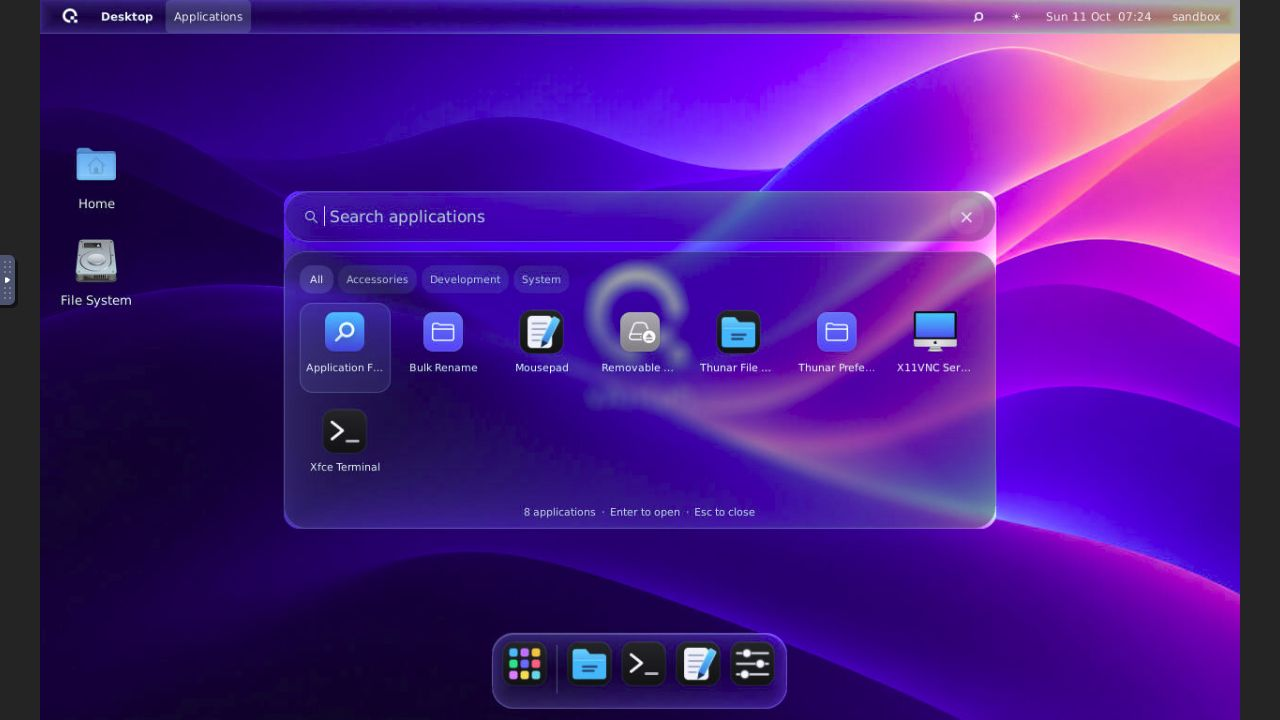
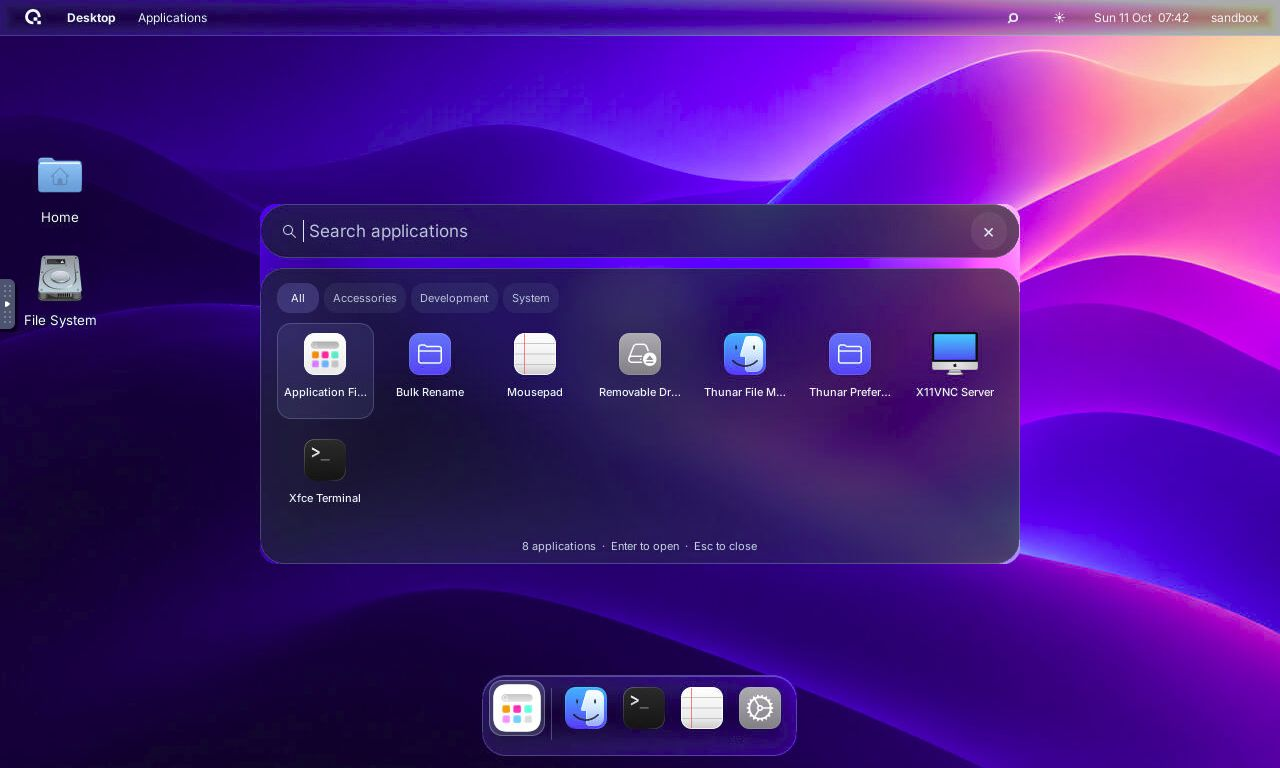
Apply MacTahoe desktop appearance and document Apple 27 references

diff --git a/shell.css b/shell.css
@@ -5,7 +5,7 @@ window#shell-surface { background-color: transparent; }
   color: #f5f6fb;
   border-bottom: 1px solid rgba(255, 255, 255, 0.16);
   padding: 0 12px;
-  font-family: "DejaVu Sans", sans-serif;
+  font-family: "Inter", "DejaVu Sans", sans-serif;
   font-size: 12px;
 }
 .menu-bar button {
@@ -146,10 +146,10 @@ window#launcher-window.light, window#panel-window.light { color: #252735; }
    material layer thin so the optical effect remains visible underneath. */
 .kwin .dock { background: rgba(17,21,33,0.16); }
 .kwin .menu-bar { background: rgba(17,21,33,0.32); }
-.kwin .launcher-search { background: rgba(12,16,25,0.30); }
-.kwin .app-grid-card, .kwin .menu-card { background: rgba(16,20,31,0.36); }
+.kwin .launcher-search { background: rgba(20,21,25,0.62); }
+.kwin .app-grid-card, .kwin .menu-card { background: rgba(24,25,29,0.60); }
 .kwin.light .dock { background: rgba(242,246,255,0.18); }
 .kwin.light .menu-bar { background: rgba(242,246,255,0.46); }
 .kwin.light .launcher-search, .kwin.light .app-grid-card, .kwin.light .menu-card {
-  background: rgba(242,246,255,0.50);
+  background: rgba(248,248,250,0.74);
 }

diff --git a/shell.py b/shell.py
@@ -72,7 +72,7 @@ class Shell:
         self.pins = [
             ('thunar.desktop', 'Files', 'system-file-manager', ('thunar',)),
             ('xfce4-terminal.desktop', 'Terminal', 'utilities-terminal', ('xfce4-terminal',)),
-            ('org.xfce.mousepad.desktop', 'Text Editor', 'accessories-text-editor', ('mousepad',)),
+            ('org.xfce.mousepad.desktop', 'Text Editor', 'accessories-text-editor', ('mousepad', 'org.xfce.mousepad')),
             ('xfce-settings-manager.desktop', 'Settings', 'preferences-system', ('xfce4-settings-manager',)),
         ]
         self.pin_widgets = []
@@ -306,11 +306,26 @@ class Shell:
         style(search, 'search-button')
         box.pack_end(search, False, False, 0)
 
+    def has_tahoe_icons(self):
+        return any((root / 'MacTahoe').is_dir() for root in
+                   (Path.home() / '.local/share/icons', Path('/usr/share/icons')))
+
     def icon(self, app_id, fallback, size):
+        if self.has_tahoe_icons():
+            themed = {'thunar.desktop': 'system-file-manager',
+                      'xfce4-terminal.desktop': 'utilities-terminal',
+                      'org.xfce.mousepad.desktop': 'accessories-text-editor',
+                      'xfce-settings-manager.desktop': 'preferences-system',
+                      'xfce4-appfinder.desktop': 'view-app-grid'}
+            name = themed.get(app_id, 'view-app-grid' if fallback == 'view-app-grid-symbolic' else None)
+            if name:
+                image = Gtk.Image.new_from_icon_name(name, Gtk.IconSize.DIALOG)
+                image.set_pixel_size(size)
+                return image
         custom = {'thunar.desktop': 'files', 'xfce4-terminal.desktop': 'terminal',
                   'org.xfce.mousepad.desktop': 'editor', 'xfce-settings-manager.desktop': 'settings'}
         name = custom.get(app_id, 'applications' if fallback == 'view-app-grid-symbolic' else None)
-        if name and (ROOT / 'icons' / f'{name}.svg').exists():
+        if not self.has_tahoe_icons() and name and (ROOT / 'icons' / f'{name}.svg').exists():
             return Gtk.Image.new_from_pixbuf(self.custom_pixbuf(name, size))
         app = Gio.DesktopAppInfo.new(app_id) if app_id else None
         if app and app.get_icon():
@@ -339,7 +354,12 @@ class Shell:
         obj.set_tooltip_text(name)
         obj.get_accessible().set_name(name)
         obj.connect('clicked', lambda _: action())
-        if window and window.get_icon():
+        if window and self.has_tahoe_icons():
+            icon_name = (window.get_class_group_name() or 'application-x-executable').casefold()
+            if not Gtk.IconTheme.get_default().has_icon(icon_name):
+                icon_name = 'application-x-executable'
+            image = self.icon(None, icon_name, 44)
+        elif window and window.get_icon():
             pixbuf = window.get_icon().scale_simple(44, 44, 2)
             image = Gtk.Image.new_from_pixbuf(pixbuf)
         else:
@@ -432,7 +452,7 @@ class Shell:
         active = self.screen.get_active_window()
         if active and not active.is_skip_tasklist():
             name = active.get_class_group_name() or 'Desktop'
-            friendly = {'thunar': 'Files', 'xfce4-terminal': 'Terminal', 'mousepad': 'Text Editor',
+            friendly = {'thunar': 'Files', 'xfce4-terminal': 'Terminal', 'mousepad': 'Text Editor', 'org.xfce.mousepad': 'Text Editor',
                         'xfce4-settings-manager': 'Settings'}
             self.active_label.set_text(friendly.get(name.casefold(), name))
         elif not active or active.get_window_type() == Wnck.WindowType.DESKTOP:
@@ -598,19 +618,36 @@ class Shell:
         dark = self.preferences['dark']
         logo = ROOT / 'assets' / ('logo-light.svg' if dark else 'logo.svg')
         self.brand_image.set_from_pixbuf(GdkPixbuf.Pixbuf.new_from_file_at_scale(str(logo), 22, 22, True))
-        theme = 'WhiteSur-Dark' if dark else 'WhiteSur-Light'
+        theme = 'MacTahoe-Dark' if dark else 'MacTahoe-Light'
         theme_roots = (Path.home() / '.themes', Path.home() / '.local/share/themes', Path('/usr/share/themes'))
-        has_whitesur = any((root / theme / 'gtk-3.0').is_dir() for root in theme_roots)
-        icon = 'WhiteSur-dark' if dark else 'WhiteSur-light'
+        has_theme = any((root / theme / 'gtk-3.0').is_dir() for root in theme_roots)
+        if not has_theme:
+            theme = 'WhiteSur-Dark' if dark else 'WhiteSur-Light'
+            has_theme = any((root / theme / 'gtk-3.0').is_dir() for root in theme_roots)
+        icon = ('MacTahoe-dark' if dark else 'MacTahoe-light') if self.has_tahoe_icons() else ('WhiteSur-dark' if dark else 'WhiteSur-light')
         icon_roots = (Path.home() / '.icons', Path.home() / '.local/share/icons', Path('/usr/share/icons'))
         has_icons = any((root / icon).is_dir() for root in icon_roots)
         has_frames = any((root / theme / 'xfwm4').is_dir() for root in theme_roots)
         for channel, prop, value in [
-            ('xsettings', '/Net/ThemeName', theme if has_whitesur else ('Adwaita-dark' if dark else 'Adwaita')),
+            ('xsettings', '/Net/ThemeName', theme if has_theme else ('Adwaita-dark' if dark else 'Adwaita')),
             ('xsettings', '/Net/IconThemeName', icon if has_icons else 'Adwaita'),
             ('xfwm4', '/general/theme', theme if has_frames else 'Default'),
         ]:
             subprocess.run(['xfconf-query', '-c', channel, '-p', prop, '-s', value], check=False)
+        cursor = 'MacTahoe-dark-cursors' if dark else 'MacTahoe-cursors'
+        if Path('/usr/share/icons', cursor).is_dir():
+            subprocess.run(['xfconf-query', '-c', 'xsettings', '-p', '/Gtk/CursorThemeName',
+                            '-n', '-t', 'string', '-s', cursor], check=False)
+        subprocess.run(['xfconf-query', '-c', 'xsettings', '-p', '/Gtk/FontName',
+                        '-n', '-t', 'string', '-s', 'Inter 10'], check=False)
+        Gtk.Settings.get_default().set_property('gtk-icon-theme-name', icon if has_icons else 'Adwaita')
+        if os.environ.get('VANTAH_COMPOSITOR') == 'kwin' and Path('/usr/share/aurorae/themes/MacTahoe-Dark').is_dir():
+            decoration = 'MacTahoe-Dark' if dark else 'MacTahoe-Light'
+            for key, value in [('library', 'org.kde.kwin.aurorae'), ('theme', '__aurorae__svg__' + decoration)]:
+                subprocess.run(['kwriteconfig6', '--file', 'kwinrc', '--group', 'org.kde.kdecoration2',
+                                '--key', key, value], check=False)
+            subprocess.run(['gdbus', 'call', '--session', '--dest', 'org.kde.KWin', '--object-path', '/KWin',
+                            '--method', 'org.kde.KWin.reconfigure'], stdout=subprocess.DEVNULL, check=False)
         self.appearance_button.set_label('☀' if dark else '☾')
         self.appearance_button.set_tooltip_text('Switch to light mode' if dark else 'Switch to dark mode')
         for key, item in self.mode_items.items():
@@ -663,7 +700,7 @@ class Shell:
                   'org.xfce.mousepad.desktop': 'editor', 'xfce-settings-manager.desktop': 'settings'}
         name = custom.get(getattr(image, 'app_id', None),
                           'applications' if getattr(image, 'fallback', '') == 'view-app-grid-symbolic' else None)
-        if name:
+        if name and not self.has_tahoe_icons():
             image.set_from_pixbuf(self.custom_pixbuf(name, size))
         else:
             image.set_pixel_size(size)

diff --git a/docs/apple-design-references.md b/docs/apple-design-references.md
@@ -1,0 +1,61 @@
+# Apple 27 appearance references
+
+Collected and inspected on 2026-10-11. The goal is closer visual alignment for
+vAntah's Linux shell. This is not a verified pixel-perfect reproduction.
+Apple images are linked as references, not bundled as theme artwork.
+
+## Official source catalog
+
+| Reference | Use |
+| --- | --- |
+| [Apple Design Resources](https://developer.apple.com/design/resources/) | Official macOS 27 and iOS/iPadOS 27 kits, icon templates, Siri resources |
+| [Design kit announcement](https://developer.apple.com/news/?id=e2lxw9l1) | June 2026 kit versions and dark-mode components |
+| [macOS 27 UI kit](https://www.figma.com/community/file/1651309434229735362/macos-27) | Component geometry; linked from Apple; full Figma document was not inspected |
+| [iOS/iPadOS 27 UI kit](https://www.figma.com/community/file/1651309003795292092/ios-and-ipados-27) | Mobile component reference; full Figma document was not inspected |
+| [macOS kit preview](https://developer.apple.com/design/resources/images/thumbnails/Thumbnail-UIKit-macOS27_2x.png) | Visually inspected grouped settings, rounded cards, compact controls |
+| [iOS kit preview](https://developer.apple.com/design/resources/images/thumbnails/Thumbnail-UIKit-iOS27_2x.png?3=) | Visually inspected colored icons, translucent dock and tablet controls |
+| [macOS 27 overview](https://www.apple.com/os/macos/) | Official screenshots, Siri/Spotlight and refined Liquid Glass |
+| [iOS 27 overview](https://www.apple.com/os/ios/) | Official iPhone UI, icons and Siri examples |
+| [Glass toolbar close-up](https://images.apple.com/v/os/g/images/macos/highlights/liquid_glass__bf6kssw93vrm_large.jpg) | Visually inspected grouped toolbar buttons, restrained borders and legible glyphs |
+| [Siri conversation panel](https://images.apple.com/v/os/g/images/macos/siri/conversation__puy86qxwfayy_large.jpg) | Visually inspected dark floating panel, compact actions and input placement |
+| [Siri desktop app](https://images.apple.com/v/os/g/images/macos/siri/siri_app__bf82k75xd8z6_large.jpg) | Visually inspected light window, traffic lights, translucent sidebar and bottom input |
+| [Siri icon resource](https://devimages-cdn.apple.com/design/resources/download/Icon-Siri.dmg) | Official Apple download, located but not extracted or installed |
+| [WWDC26 platform presentation](https://developer.apple.com/videos/play/wwdc2026/112/) | Readability and consistency refinements |
+| [Icon Composer lab](https://developer.apple.com/videos/play/wwdc2026/8012/) | Layered icon design, material and contrast reference |
+
+## Findings applied
+
+The inspected Apple screenshots use recognizable colored artwork, not a uniform
+black tile behind every app. Thin borders, soft backdrop blur and controlled
+highlights support readable controls. Content regions are more solid than glass
+navigation surfaces. Light and dark appearances change controls and window frames,
+not just the wallpaper. Siri's conversation view and Spotlight's app search serve
+different purposes; vAntah currently provides local application search only.
+
+vAntah now uses a pinned open-source Linux package for app/system icons and
+cursors, MacTahoe GTK controls and Aurorae traffic-light window frames. KWin Glass
+has a narrower refraction edge, less color fringing, a quieter glow and stronger
+backdrop blur. Search surfaces receive a more neutral tint to protect label contrast.
+
+## Installed Linux packages and attribution
+
+| Package | Pinned source revision | License |
+| --- | --- | --- |
+| [MacTahoe icons](https://github.com/vinceliuice/MacTahoe-icon-theme) | `839848b9a8a38a92a6936e30c4abe35cc6f2546d` | GPL-3.0 |
+| [MacTahoe GTK](https://github.com/vinceliuice/MacTahoe-gtk-theme) | `1e45e19f510edb8cde18fa84d6cd5319f60b086b` | MIT |
+| [MacTahoe KDE](https://github.com/vinceliuice/MacTahoe-kde) | `cbf6a1f71b591d143184855d62f6272ce533e7c3` | LGPL-3.0 |
+
+These projects target macOS Tahoe-inspired Linux appearance. They are not official
+Apple icon packages and do not supply Apple's layered Icon Composer rendering.
+
+## Fidelity limits
+
+There is no measured pixel-diff validation against a full macOS 27 component kit.
+The official public previews were inspected; Figma's full documents were not
+accessible through the research fetcher. GTK apps retain their own layouts and
+menus. Inter is used rather than Apple's SF Pro. X11 KWin Glass provides live
+blur and convex refraction, but newer Wayland-only glass controls are unavailable.
+Software rendering and noVNC scaling affect animation smoothness and perceived
+sharpness. No Siri service, voice assistant or Apple Intelligence backend is
+implemented. Further exact matching requires component-by-component measurements,
+not stronger claims about this theme package.

diff --git a/README.md b/README.md
@@ -7,7 +7,7 @@ a refractive dock, application search, dark mode, and motion controls.
 The current source uses KWin X11 and the real KWin Glass compositor effect.
 The published v0.1.1 installer below still provides the earlier Picom demo.
 
-Running KWin Glass desktop:
+Running KWin Glass desktop with MacTahoe icons:
 
 ![KWin Glass launcher and dock](docs/screenshots/kwin-glass.jpg)
 
@@ -62,11 +62,15 @@ The source is baked into the image. Rebuild after editing it. `run.sh` refuses t
 replace an existing container; use a different name and port to keep its files:
 `sh sandbox/run.sh vantah-demo-v2 6082`.
 
-The fresh demo uses Adwaita app and window themes. The application-search screenshot shows the
-existing sandbox with separately installed WhiteSur themes and icons. If those
-are already installed, the shell selects them; otherwise it uses Adwaita.
-The wallpaper and dock icons are original project assets. vAntah uses the
-Qentrah logo supplied by the project owner.
+The current source installs pinned [MacTahoe icons](https://github.com/vinceliuice/MacTahoe-icon-theme),
+[GTK themes](https://github.com/vinceliuice/MacTahoe-gtk-theme), cursors, and
+[KWin Aurorae decorations](https://github.com/vinceliuice/MacTahoe-kde).
+These are open-source Linux themes inspired by macOS Tahoe, not extracted Apple
+system assets or an exact macOS 27 theme. Inter is the desktop font.
+[Apple 27 and Siri reference catalog](docs/apple-design-references.md) records
+which official screenshots informed the work and what still differs.
+The wallpaper is an original project asset. vAntah uses the Qentrah logo supplied
+by the project owner. The earlier v0.1.1 demo screenshots retain its older appearance.
 
 ## Native implementation
 
@@ -95,10 +99,10 @@ The shell starts automatically with the Alpine desktop.
 
 `shell.py` is the native shell, `shell.css` defines its UI, and `kwinrc` configures
 the real Glass effect. The Picom files remain for the earlier session backend.
-The compact dark-tile dock icons are editable SVGs in `icons/`; `icons/generate.py`
-regenerates them. Dock hover zoom uses cached images and native animation timers.
+MacTahoe supplies the active dock, launcher, application, and system icons.
+The original SVGs in `icons/` remain as a fallback when MacTahoe is unavailable. Dock hover zoom uses cached images and native animation timers.
 Dock symbols render at 48 pixels with a 54-pixel hover size, inside 56-pixel
-click targets. The dark tiles use near-full-frame artwork with tighter gaps.
+click targets. Themed artwork keeps its upstream shape and color rather than adding a fixed black tile.
 The source installed in Alpine is `~/.local/share/alpine-shell`.
 
 `fix-vnc.py` patches the sandbox's noVNC client so Mac Command stays Linux
@@ -116,8 +120,11 @@ From this directory on the Mac:
 sh install.sh alpine-gui
 ```
 
-Optional WhiteSur themes and icons are not redistributed here and keep their
-upstream licenses. The shell code, wallpaper, and dock icons are MIT licensed. The Qentrah logo
+`sandbox/install-appearance.sh` downloads pinned theme sources and preserves their
+licenses in `/usr/share/doc/vantah-appearance/`: icons GPL-3.0, GTK MIT, and
+KDE decorations LGPL-3.0. These remain separate from the shell's license.
+The installer disables the unrelated GNOME theme switcher and uses upstream
+silent mode to work in headless Alpine builds. The shell code, wallpaper, and dock icons are MIT licensed. The Qentrah logo
 is project-owner branding, excluded from the artwork license. This is an original Linux shell inspired by Apple
 design, not Apple's iOS or macOS code and not an official 2027 Apple theme.
 
@@ -154,7 +161,8 @@ node sandbox/test-vnc-sizing.cjs /tmp/vantah-vnc-ui.js
 The keyboard regression simulates a swallowed Mac Command release and checks
 that it is released before the next `e` key, without sending Linux Alt.
 
-The existing Alpine sandbox was upgraded, booted, and visually checked with
-KWin and `glass_x11` loaded. The revised multistage Docker image has not yet
+The existing Alpine sandbox was upgraded with MacTahoe, booted, and checked with
+KWin and `glass_x11` loaded. [Appearance checks](docs/appearance-testing.md) record
+the tested controls and limitations. The revised multistage Docker image has not yet
 been validated from a clean build. The earlier v0.1.1 image and installer were
 built and booted, and the patched noVNC keyboard regression passed.

diff --git a/docs/appearance-testing.md b/docs/appearance-testing.md
@@ -1,0 +1,53 @@
+# Appearance and desktop checks
+
+Checked on 2026-10-11 in the existing `alpine-gui` sandbox at 1280 × 768,
+using KWin X11 6.5.6, Mesa software rendering and noVNC in the Codex browser.
+
+## Passed
+
+- Ran the complete `install.sh alpine-gui` upgrade: downloaded pinned Linux
+  theme sources, installed light/dark GTK themes, icon themes, cursors and
+  Aurorae decorations, preserved license/revision files, then booted the session.
+- KWin's DBus `isEffectLoaded glass_x11` returned true after the upgrade and
+  appearance/motion switching. Picom and Xfwm were absent from active processes.
+- All eight visible installed application desktop entries resolved their icons
+  to `/usr/share/icons/MacTahoe-dark/`. Dock, wallpaper and accessibility icon
+  names were also checked; none of the audited names were missing.
+- Searched for `term` through the GUI and launched Terminal with Enter.
+- Typed `e` in Terminal: the letter appeared at the prompt; Edit stayed closed.
+- Used traffic-light controls to maximize, minimize and close Terminal.
+  Clicking its dock icon restored the minimized window.
+- Opened Files and Settings from the dock; inspected their themed controls.
+- Toggled light mode with Files open: GTK changed to `MacTahoe-Light`, icons to
+  `MacTahoe-light`, and Aurorae to `MacTahoe-Light`. Visually confirmed the white
+  content/window frame, then returned to dark mode.
+- Opened Mousepad, typed `e`, and discarded only that temporary test document.
+  This exposed its newer `org.xfce.mousepad` window class; the shell now matches
+  it to the pinned Text Editor icon and friendly app label. After rebooting the
+  fixed shell, visually verified five dock icons, the correct pinned running dot
+  and the Text Editor label, with no duplicate Mousepad icon.
+- Enabled Reduce Motion in the desktop menu; saved preference became true and
+  KWin `AnimationDurationFactor` became 0. Disabled it again; factor returned to 1.
+- Opened the clock calendar and dismissed it by clicking outside.
+- Python syntax checks and shell installer syntax checks passed.
+- Five installer regressions passed. The actual patched noVNC keyboard test
+  passed (lost Command release cleared before `e`, no Alt sent); viewport tests
+  passed (remote/scale fit, off preserves native size).
+
+## Limits
+
+Native-resolution screenshots: [launcher](screenshots/kwin-glass.jpg) and
+[window frames](screenshots/window-tahoe.jpg). The browser was temporarily tested
+at the framebuffer resolution to check clipping without VNC scaling, then reset.
+
+These are smoke checks of the existing sandbox, not exhaustive testing of every
+Linux application. The new multistage Docker image has not been clean-built.
+The published v0.1.1 installer still targets the earlier Picom release; current
+MacTahoe/KWin changes are on the main source branch. Apple 27 screenshot references
+were inspected, but no pixel-diff or full Figma component measurement was done.
+The installed MacTahoe packages are Tahoe-inspired Linux artwork, not official
+macOS 27 assets. Software-rendered glass and VNC updates visibly lag input.
+
+Rams quick_review was requested with `via: rules` in its review context (the tool
+has no separate `via` parameter). It returned an exhausted review-credit error,
+so there is no Rams score or successful automated review to report.
